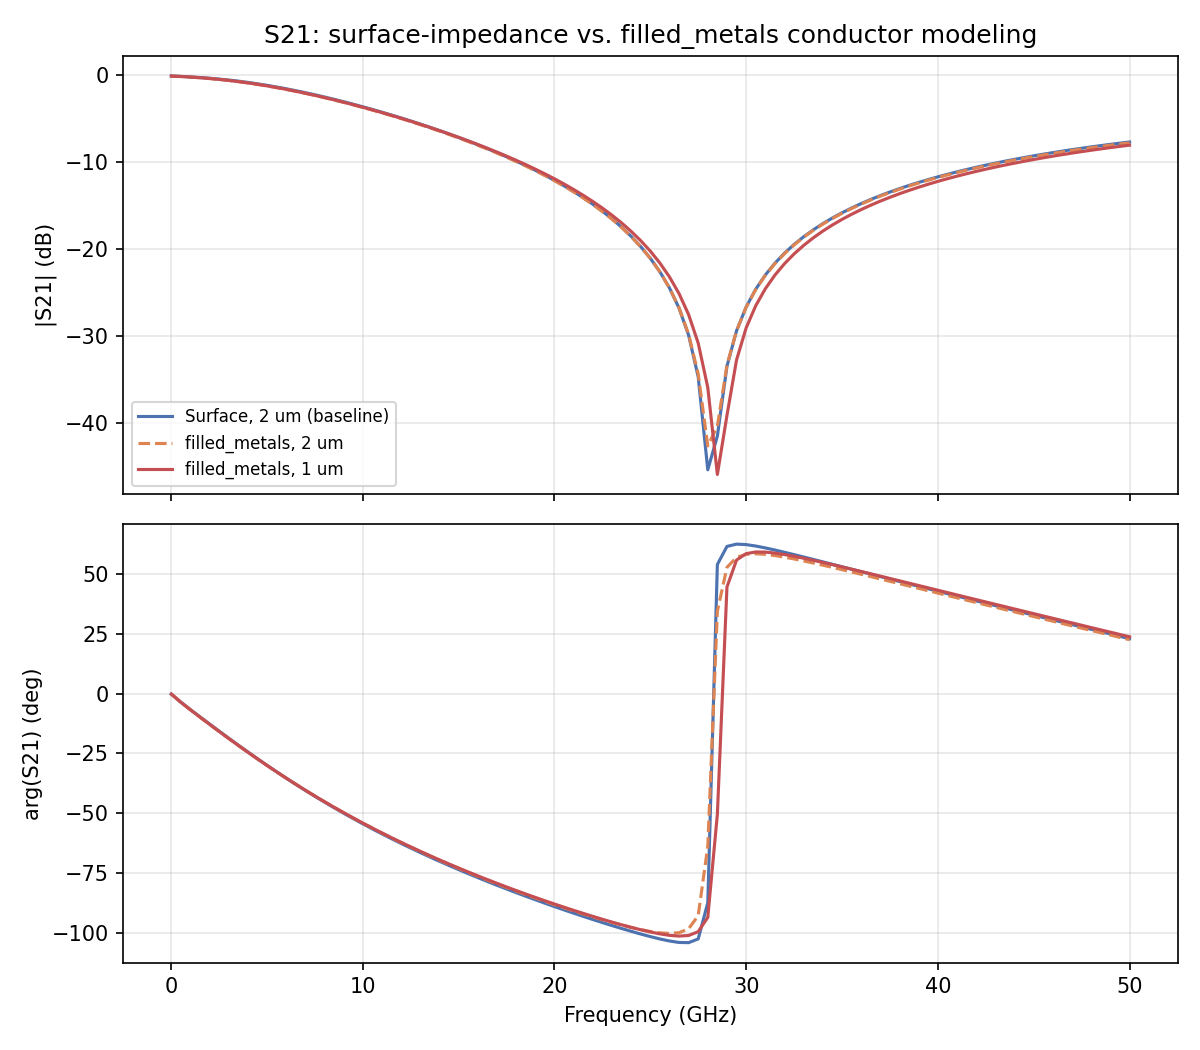
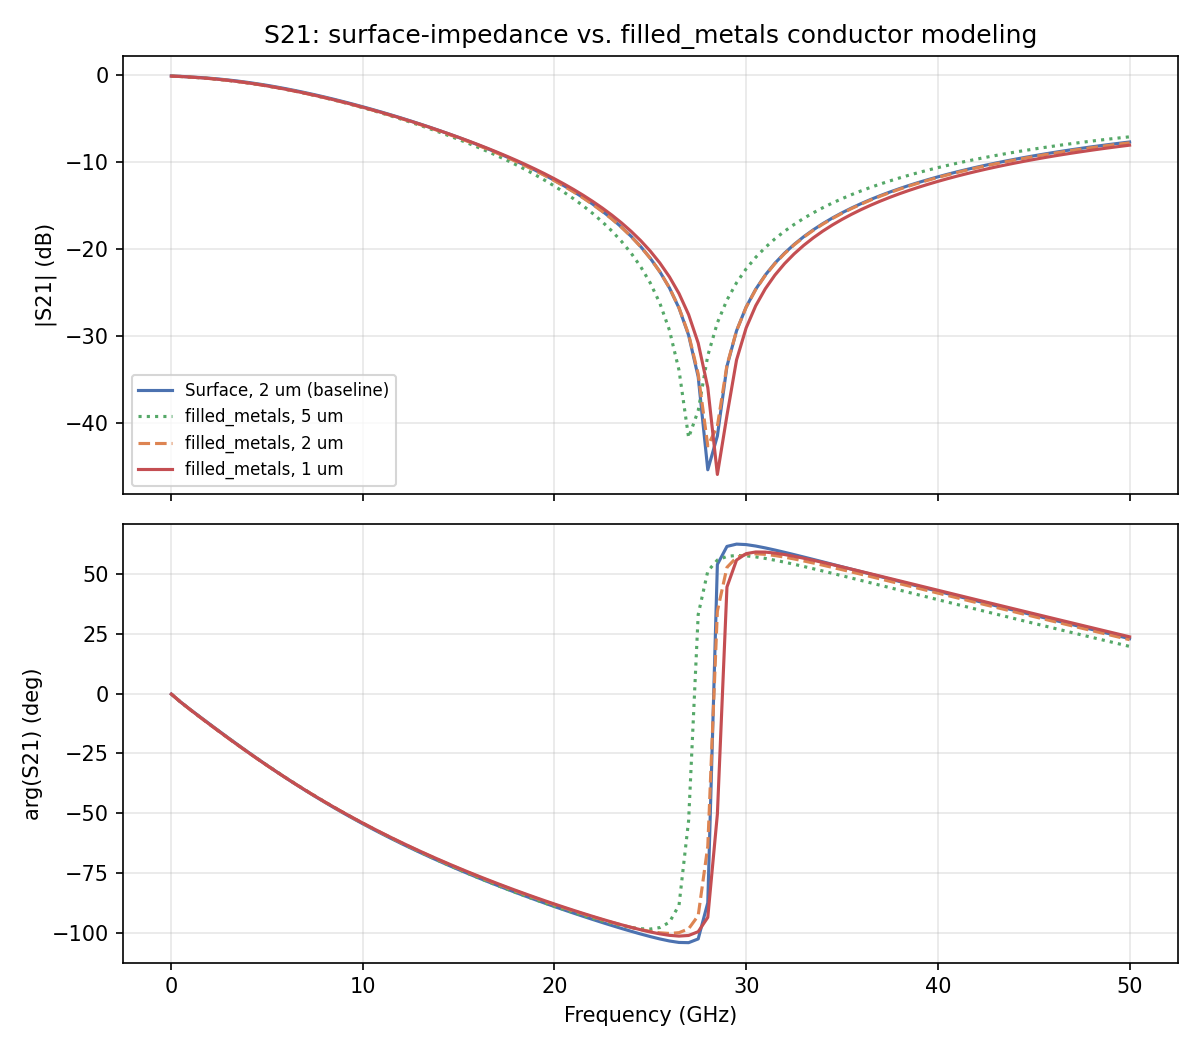
Add volume_5um mesh point to filled_metals L2n0 comparison
Add a coarser 5 um filled_metals model/result to bracket volume_2um
on the coarse side, alongside the existing 2 um/1 um pair. Update the
comparison report, analysis script, and regenerated tables/plots
accordingly: volume_5um is cheaper than even the surface-impedance
baseline but is an accuracy outlier (S-params, SRF, Q/Rseries) since
5 um exceeds the metal thickness and 7 GHz skin depth, so 2 um remains
the practical mesh floor for loss/Q work.

Changed region(s): [[0.1233, 0.3657, 0.3392, 0.4267]]

diff --git a/more_examples/filled_metals_inductor_L2n0/results/analyze_comparison.py b/more_examples/filled_metals_inductor_L2n0/results/analyze_comparison.py
@@ -1,8 +1,8 @@
 #!/usr/bin/env python
 """Surface-impedance vs. filled_metals (bulk-conductivity volume) conductor
 modeling comparison for the L_2n0_twoport differential inductor (IHP
-SG13G2), at matched (surface_2/volume_2, 2um) and finer (volume_1, 1um)
-mesh.
+SG13G2), at matched (surface_2/volume_2, 2um) and finer (volume_1, 1um) or
+coarser (volume_5, 5um) mesh.
 
 Reads RAW (not de-embedded) 2-port Touchstone files from results/snp/,
 following the repo's mesh-convergence-study convention
@@ -32,13 +32,15 @@ PLOT_DIR = os.path.join(HERE, "plots")
 
 SERIES = [
     ("surface_2um", "Surface, 2 um (baseline)", "surface_2um.s2p"),
+    ("volume_5um", "filled_metals, 5 um", "volume_5um.s2p"),
     ("volume_2um", "filled_metals, 2 um", "volume_2um.s2p"),
     ("volume_1um", "filled_metals, 1 um", "volume_1um.s2p"),
 ]
 
 COMPARISONS = [
     ("surface_2um", "volume_2um", "conductor modeling only (matched 2um mesh)"),
-    ("volume_2um", "volume_1um", "mesh refinement only (filled_metals)"),
+    ("volume_5um", "volume_2um", "mesh refinement only (filled_metals, 5um -> 2um)"),
+    ("volume_2um", "volume_1um", "mesh refinement only (filled_metals, 2um -> 1um)"),
     ("surface_2um", "volume_1um", "combined (baseline vs. filled_metals as used)"),
 ]
 
@@ -162,8 +164,8 @@ def main():
     print(f"Wrote delta-S table: {csv_path}")
 
     # ---------- S-parameter overlay plots ----------
-    colors = {"surface_2um": "#4c72b0", "volume_2um": "#dd8452", "volume_1um": "#c44e52"}
-    styles = {"surface_2um": "-", "volume_2um": "--", "volume_1um": "-"}
+    colors = {"surface_2um": "#4c72b0", "volume_5um": "#55a868", "volume_2um": "#dd8452", "volume_1um": "#c44e52"}
+    styles = {"surface_2um": "-", "volume_5um": ":", "volume_2um": "--", "volume_1um": "-"}
 
     for pname in PARAMS:
         fig, (ax_mag, ax_phase) = plt.subplots(2, 1, figsize=(8, 7), sharex=True)

diff --git a/more_examples/filled_metals_inductor_L2n0/palace_L2n0_volume_5.py b/more_examples/filled_metals_inductor_L2n0/palace_L2n0_volume_5.py
@@ -27,7 +27,7 @@ settings['fstop'] = 50.0e9
 settings['fstep'] = 0.5e9
 settings['fdump'] = [15.0e9]
 
-settings['refined_cellsize'] = 2.0
+settings['refined_cellsize'] = 5.0
 settings['filled_metals'] = True
 
 settings['cells_per_wavelength'] = 10.0
@@ -54,15 +54,15 @@ layernumbers = metals_list.getlayernumbers()
 layernumbers.extend(simulation_ports.portlayers)
 
 # read geometries from GDSII
-allpolygons = gds_reader.read_gds(settings['GdsFile'], 
+allpolygons = gds_reader.read_gds(settings['GdsFile'],
 	layernumbers,
-	cellname=settings['cellname'], 
-	purposelist=settings['purpose'], 
-	metals_list=metals_list, 
-	preprocess=settings['preprocess_gds'], 
+	cellname=settings['cellname'],
+	purposelist=settings['purpose'],
+	metals_list=metals_list,
+	preprocess=settings['preprocess_gds'],
 	merge_polygon_size=settings['merge_polygon_size'],
 	gds_boundary_layers=dielectrics_list.get_boundary_layers(),
-	mirror=False, 
+	mirror=False,
 	offset_x=0, offset_y=0,
 	layernumber_offset=0)
 

diff --git a/more_examples/filled_metals_inductor_L2n0/palace_L2n0_surface_2.py b/more_examples/filled_metals_inductor_L2n0/palace_L2n0_surface_2.py
@@ -16,8 +16,8 @@ sim_path = utilities.create_sim_path (script_path,model_basename)
 settings={}
 settings['unit'] = 1e-06
 settings['purpose'] = [0]
-settings['GdsFile'] = 'D:/github-claude/gds2palace_ihp_sg13g2/test_data/filled_metal_L2n0/L_2n0_twoport.gds'
-settings['SubstrateFile'] = 'D:/github-claude/gds2palace_ihp_sg13g2/test_data/filled_metal_L2n0/SG13G2_200um.xml'
+settings['GdsFile'] = 'L_2n0_twoport.gds'
+settings['SubstrateFile'] = 'SG13G2_200um.xml'
 settings['preprocess_gds'] = True
 settings['merge_polygon_size'] = 2.0
 settings['margin'] = 150.0

diff --git a/more_examples/filled_metals_inductor_L2n0/palace_L2n0_volume_1.py b/more_examples/filled_metals_inductor_L2n0/palace_L2n0_volume_1.py
@@ -16,8 +16,8 @@ sim_path = utilities.create_sim_path (script_path,model_basename)
 settings={}
 settings['unit'] = 1e-06
 settings['purpose'] = [0]
-settings['GdsFile'] = 'D:/github-claude/gds2palace_ihp_sg13g2/test_data/filled_metal_L2n0/L_2n0_twoport.gds'
-settings['SubstrateFile'] = 'D:/github-claude/gds2palace_ihp_sg13g2/test_data/filled_metal_L2n0/SG13G2_200um.xml'
+settings['GdsFile'] = 'L_2n0_twoport.gds'
+settings['SubstrateFile'] = 'SG13G2_200um.xml'
 settings['preprocess_gds'] = True
 settings['merge_polygon_size'] = 2.0
 settings['margin'] = 150.0

diff --git a/more_examples/filled_metals_inductor_L2n0/filled_metals_comparison_report.md b/more_examples/filled_metals_inductor_L2n0/filled_metals_comparison_report.md
@@ -17,10 +17,13 @@ This is not a mesh-convergence study in the usual sense (see
 `more_examples/mesh_convergence/AGENTS.md` for that house style) — it compares the new
 `settings['filled_metals']` conductor model (conductors as solid bulk-conductivity volumes)
 against the existing default (thin surface-impedance sheets) on a real, previously-designed
-inductor, at both a matched mesh size (2 µm) and a finer one (1 µm) for `filled_metals`. The
-three model variants and their raw simulation results already existed (`filled_metal_L2n0/` in
-`test_data/`, generated and solved by the user); this report moves them into `more_examples/`
-and analyzes the results.
+inductor, at a matched mesh size (2 µm) and both a finer (1 µm) and a coarser (5 µm) one for
+`filled_metals`. The first three model variants (`surface_2um`, `volume_2um`, `volume_1um`) and
+their raw simulation results already existed (`filled_metal_L2n0/` in `test_data/`, generated
+and solved by the user); this report moved them into `more_examples/` and analyzed the results.
+The fourth variant, `volume_5um`, was added later (model and completed simulation staged in
+`test_data/filled_metals_comparison/`, also generated and solved by the user) to extend the
+mesh-refinement comparison with a coarser `filled_metals` mesh point.
 
 ## 1. Layout
 
@@ -36,18 +39,20 @@ P2), which connect down to **SUBGND**, 12 µm wide, spaced 56.4 µm center-to-ce
 
 ## 2. Method
 
-Three model variants, same GDS/stackup/ports/sweep/boundaries — only conductor model and mesh
+Four model variants, same GDS/stackup/ports/sweep/boundaries — only conductor model and mesh
 size differ:
 
 | Variant | Conductor model | `refined_cellsize` | Model file |
 |---|---|---:|---|
 | `surface_2um` | Surface impedance (default) | 2 µm | `palace_L2n0_surface_2.py` |
+| `volume_5um` | `filled_metals` (bulk-conductivity volume) | 5 µm | `palace_L2n0_volume_5.py` |
 | `volume_2um` | `filled_metals` (bulk-conductivity volume) | 2 µm | `palace_L2n0_volume_2.py` |
 | `volume_1um` | `filled_metals` (bulk-conductivity volume) | 1 µm | `palace_L2n0_volume_1.py` |
 
 `surface_2um` vs. `volume_2um` isolates the effect of conductor modeling alone (identical
-mesh size). `volume_2um` vs. `volume_1um` isolates the effect of mesh refinement alone within
-`filled_metals` (identical conductor model). `surface_2um` vs. `volume_1um` is the combined
+mesh size). `volume_5um` vs. `volume_2um` and `volume_2um` vs. `volume_1um` isolate the effect
+of mesh refinement alone within `filled_metals` (identical conductor model), bracketing
+`volume_2um` on both the coarse and fine side. `surface_2um` vs. `volume_1um` is the combined
 effect (baseline vs. `filled_metals` as actually used for this design).
 
 ## 3. Simulation cost
@@ -55,6 +60,7 @@ effect (baseline vs. `filled_metals` as actually used for this design).
 | Variant | DOF | Mesh elements | Solve time | Peak RAM |
 |---|---:|---:|---:|---:|
 | `surface_2um` | 629,856 | 90,655 | 6m 55s | 7.80 GB |
+| `volume_5um` | 283,832 | 44,618 | 3m 28s | 3.77 GB |
 | `volume_2um` | 751,332 | 118,303 | 11m 54s | 10.63 GB |
 | `volume_1um` | 1,616,260 | 254,592 | 26m 0s | 23.59 GB |
 
@@ -64,7 +70,13 @@ instead of a boundary condition. Refining `filled_metals` from 2 µm to 1 µm mo
 DOF again (2.15×) and roughly doubles solve time and RAM, consistent with the known cost of the
 current implementation, which has no automatic near-surface mesh grading (see
 `doc/ARCHITECTURE.md`'s `filled_metals` entry) — the whole conductor volume gets uniformly
-refined, not just the region near skin depth.
+refined, not just the region near skin depth. Coarsening `filled_metals` from 2 µm to 5 µm goes
+the other way, cutting DOF by ~2.6× and solve time by ~3.4× — cheap enough that `volume_5um`
+actually costs less than the `surface_2um` baseline on every metric (fewer DOF, fewer mesh
+elements, faster solve, less RAM), even though it meshes the conductor interior and the
+surface-impedance model doesn't. That only works because 5 µm is a very coarse cell size
+relative to this structure's ~12 µm trace width and ~3 µm minimum gap — see §5 below for what
+that coarseness costs in accuracy.
 
 ## 4. S-parameters
 
@@ -82,16 +94,22 @@ magnitude-only differences at representative frequencies (full table:
 | Param | Comparison | What changes | Max\|ΔS\| (linear) | \|ΔS\|@1GHz (dB) | \|ΔS\|@7GHz (dB) | \|ΔS\|@20GHz (dB) |
 |---|---|---|---:|---:|---:|---:|
 | S11 | surface_2um → volume_2um | conductor modeling only | 0.0077 | 0.1617 | 0.0137 | 0.0340 |
-| S11 | volume_2um → volume_1um | mesh refinement only | 0.0165 | 0.0102 | 0.0027 | 0.0080 |
+| S11 | volume_5um → volume_2um | mesh refinement only (5um→2um) | 0.0444 | 0.0381 | 0.0334 | 0.0254 |
+| S11 | volume_2um → volume_1um | mesh refinement only (2um→1um) | 0.0165 | 0.0102 | 0.0027 | 0.0080 |
 | S11 | surface_2um → volume_1um | combined | 0.0195 | 0.1719 | 0.0110 | 0.0420 |
 | S21 | surface_2um → volume_2um | conductor modeling only | 0.0068 | 0.0188 | 0.0739 | 0.0427 |
-| S21 | volume_2um → volume_1um | mesh refinement only | 0.0149 | 0.0003 | 0.0062 | 0.2207 |
+| S21 | volume_5um → volume_2um | mesh refinement only (5um→2um) | 0.0399 | 0.0013 | 0.0095 | 0.6171 |
+| S21 | volume_2um → volume_1um | mesh refinement only (2um→1um) | 0.0149 | 0.0003 | 0.0062 | 0.2207 |
 | S21 | surface_2um → volume_1um | combined | 0.0178 | 0.0184 | 0.0677 | 0.1780 |
 
 At 7 GHz, the conductor-modeling effect (surface → volume) dominates S21's delta over the
-mesh-refinement effect (volume_2um → volume_1um) by more than 10×, while `volume_2um` and
-`volume_1um` agree closely with each other — the `filled_metals` result is itself already
-reasonably mesh-converged at 7 GHz; the bigger factor is the conductor model, not mesh size.
+2um→1um mesh-refinement effect by more than 10×, while `volume_2um` and `volume_1um` agree
+closely with each other — the `filled_metals` result is itself already reasonably
+mesh-converged at 7 GHz between 2 µm and 1 µm; the bigger factor is the conductor model, not
+mesh size. Coarsening further to 5 µm breaks that near-convergence, though: `volume_5um` →
+`volume_2um` shows a noticeably larger delta than either finer-mesh step, most strikingly at
+20 GHz where S21 moves by 0.62 dB — 5 µm is simply too coarse relative to this structure's
+~3 µm minimum gap to resolve it reliably, especially as resonance is approached.
 
 ## 5. Differential L / Q / Rseries
 
@@ -99,8 +117,10 @@ reasonably mesh-converged at 7 GHz; the bigger factor is the conductor model, no
 ![Differential Q factor](results/plots/inductor_LQR_q.png)
 ![Differential series resistance](results/plots/inductor_LQR_r.png)
 
-Self-resonant frequency (Ldiff crossing zero) is ~23.1–23.3 GHz for all three variants —
-consistent across conductor models and mesh sizes, a good cross-check of the extraction itself.
+Self-resonant frequency (Ldiff crossing zero) is ~23.1–23.3 GHz for `surface_2um`, `volume_2um`
+and `volume_1um` — consistent across conductor models and mesh sizes, a good cross-check of the
+extraction itself. `volume_5um` is the outlier here too, at 22.5 GHz — another symptom of its
+mesh being too coarse to trust near resonance (see §5's discussion above).
 L and Q are plotted out to 1.2×SRF; the 20 GHz table row sits close enough to resonance that
 L/Q swing quickly there and shouldn't be read as "the" inductance in the same sense as the
 1/7 GHz rows. Rseries is instead plotted only to 8 GHz (y-axis capped at 5 Ω) to keep the
@@ -110,21 +130,31 @@ would be dominated by the >100 Ω climb near resonance (see the 20 GHz table row
 | Freq (GHz) | Variant | L (nH) | Q | Rseries (Ω) |
 |---:|---|---:|---:|---:|
 | 1.0 | Surface, 2 µm (baseline) | 1.6521 | 6.93 | 1.497 |
+| 1.0 | filled_metals, 5 µm | 1.6754 | 6.15 | 1.711 |
 | 1.0 | filled_metals, 2 µm | 1.6798 | 6.20 | 1.701 |
 | 1.0 | filled_metals, 1 µm | 1.6808 | 6.21 | 1.701 |
 | **7.0** | **Surface, 2 µm (baseline)** | **1.7763** | **26.62** | **2.935** |
+| **7.0** | **filled_metals, 5 µm** | **1.7846** | **18.31** | **4.286** |
 | **7.0** | **filled_metals, 2 µm** | **1.7874** | **19.81** | **3.968** |
 | **7.0** | **filled_metals, 1 µm** | **1.7859** | **20.27** | **3.876** |
 | 20.0 (near SRF) | Surface, 2 µm (baseline) | 6.03 | 6.86 | 110.5 |
+| 20.0 (near SRF) | filled_metals, 5 µm | 6.95 | 4.48 | 195.0 |
 | 20.0 (near SRF) | filled_metals, 2 µm | 5.98 | 5.63 | 133.5 |
 | 20.0 (near SRF) | filled_metals, 1 µm | 5.69 | 6.18 | 115.7 |
 
-At the 7 GHz design frequency: **L agrees closely** across all three (1.776–1.787 nH, <0.7%
-spread) — the inductance itself is insensitive to conductor model here. **Q and Rseries do not**:
-`filled_metals` shows ~30–35% higher Rseries and ~24–26% lower Q than the surface-impedance
-model, essentially independent of mesh (volume_2um and volume_1um agree with each other to
-~2.5% on both, at 1 µm and 2 µm mesh) — this is a real, mesh-converged difference between the
-two *models*, not a `filled_metals` mesh-resolution artifact at this frequency.
+At the 7 GHz design frequency: **L still agrees closely** across all four variants (1.776–1.787
+nH, <0.7% spread even including the 5 µm mesh) — the inductance itself is robust to both
+conductor model and mesh size here. **Q and Rseries are more mesh-sensitive than the 2 µm/1 µm
+pair alone suggested**: `volume_2um` and `volume_1um` agree with each other to ~2.5% on both
+(the mesh-converged `filled_metals` behavior noted below), but `volume_5um` sits clearly outside
+that agreement — Rseries ~8% higher and Q ~10% lower than `volume_2um` at 7 GHz, and the gap
+widens sharply near SRF (20 GHz: `volume_5um`'s Rseries is 195 Ω vs. 133 Ω for `volume_2um`,
+and L itself has visibly diverged, 6.95 nH vs. 5.98 nH). 5 µm is too coarse to trust for Q/R
+work on this structure; 2 µm and 1 µm remain the mesh-converged pair the rest of this discussion
+refers to as "`filled_metals`" below. Independent of mesh, `filled_metals` (at 2 µm/1 µm) shows
+~30–35% higher Rseries and ~24–26% lower Q than the surface-impedance model at 7 GHz — a real,
+mesh-converged difference between the two *models*, not a `filled_metals` mesh-resolution
+artifact at this frequency.
 
 **Why might this be:** the zoomed Rseries plot (0–8 GHz, 0–5 Ω) shows the gap between models is
 already present near DC (~1.2 Ω surface vs. ~1.5 Ω `filled_metals` as f→0) and grows roughly
@@ -135,7 +165,10 @@ conductor cross-section between a meshed volume and an analytic surface-impedanc
 frequency-dependent growth on top of that is consistent with skin/proximity effect: in
 TopMetal2 (σ=30.3×10⁶ S/m), skin depth is 2.89 µm at 1 GHz and 1.09 µm at 7 GHz against a 3 µm
 metal thickness — thin enough to matter, but not so thin that either 1 µm or 2 µm mesh should
-badly under-resolve it. This is a tightly-wound coil with a
+badly under-resolve it. A 5 µm mesh is a different story: it's coarser than the metal thickness
+itself and well above the 7 GHz skin depth, which is consistent with `volume_5um` being the
+outlier above rather than sitting on the same converged trend as `volume_2um`/`volume_1um`.
+This is a tightly-wound coil with a
 ~3 µm gap at the underpass bridge and conductor sections running close to each other and to the
 SUBGND return — a surface-impedance boundary condition computes loss from the local field at
 each point, independent of nearby conductors, whereas a volume-meshed model can in principle
@@ -164,22 +197,33 @@ log scale).
 *filled_metals (1 µm):* visibly denser mesh both inside the conductor and in the surrounding
 dielectric near it, compared to the 2 µm case.
 
+`volume_5um`'s E-field/mesh cross-section wasn't rendered (KLayout + `field_viewer.py`, a manual
+step not repeated when this variant was added — see §8's regeneration note).
+
 ## 7. Discussion
 
 - **Inductance (L)** is robust to conductor modeling choice for this structure at 7 GHz — use
-  either model if L alone is the target quantity.
+  either model if L alone is the target quantity, at any of the tested mesh sizes down to 5 µm.
 - **Q and series resistance are not** — `filled_metals` predicts meaningfully more loss than the
-  surface-impedance default here, and this shows up consistently at both tested mesh sizes, so
-  it isn't simply a "refine the mesh more" fix. Anyone using `filled_metals` for loss/Q-sensitive
-  work should be aware the two conductor models can disagree by tens of percent on Q/R even when
-  well mesh-converged against themselves, and that this repo doesn't yet have independent
-  validation (e.g. against measurement) of which one is closer to reality for a coupled-turn
-  structure like this.
-- **Cost**: `filled_metals` at matched mesh already costs ~70% more solve time than surface
-  impedance; refining further roughly doubles cost again. For routine differential-L extraction
-  where surface and volume models agree, the surface-impedance default remains the practical
-  choice; `filled_metals` is worth its extra cost specifically when the bulk-conductor physics
-  (that a boundary condition can't represent) is the thing being investigated.
+  surface-impedance default here, and this shows up consistently at both mesh-converged sizes
+  (2 µm and 1 µm), so it isn't simply a "refine the mesh more" fix. Anyone using `filled_metals`
+  for loss/Q-sensitive work should be aware the two conductor models can disagree by tens of
+  percent on Q/R even when well mesh-converged against themselves, and that this repo doesn't
+  yet have independent validation (e.g. against measurement) of which one is closer to reality
+  for a coupled-turn structure like this.
+- **Don't go too coarse**: unlike L, Q and Rseries are mesh-sensitive within `filled_metals`
+  itself once the mesh gets too coarse relative to the structure — `volume_5um` (5 µm cells vs.
+  a 3 µm metal thickness and ~3 µm minimum gap) diverges from the 2 µm/1 µm agreement by ~8-10%
+  on Q/R at 7 GHz, growing much worse near self-resonance. 5 µm is cheap (see cost below) but not
+  trustworthy for loss/Q work on this structure; 2 µm is the practical floor here.
+- **Cost**: `filled_metals` at matched (2 µm) mesh already costs ~70% more solve time than
+  surface impedance; refining further to 1 µm roughly doubles cost again. Coarsening to 5 µm
+  goes the other way and is actually cheaper than the surface-impedance baseline — but per the
+  point above, that cheap result isn't accurate enough to use for anything but a quick sanity
+  check. For routine differential-L extraction where surface and volume models agree, the
+  surface-impedance default remains the practical choice; `filled_metals` (at 2 µm or finer) is
+  worth its extra cost specifically when the bulk-conductor physics (that a boundary condition
+  can't represent) is the thing being investigated.
 
 ## 8. Where everything lives
 
@@ -189,6 +233,7 @@ more_examples/filled_metals_inductor_L2n0/
 ├── L_2n0_twoport.gds                    -- layout (input)
 ├── SG13G2_200um.xml                     -- stackup (input)
 ├── palace_L2n0_surface_2.py             -- surface-impedance, 2um mesh
+├── palace_L2n0_volume_5.py              -- filled_metals, 5um mesh
 ├── palace_L2n0_volume_2.py              -- filled_metals, 2um mesh
 ├── palace_L2n0_volume_1.py              -- filled_metals, 1um mesh
 ├── palace_model/                        -- raw solver output (gitignored, not committed)
@@ -202,6 +247,7 @@ more_examples/filled_metals_inductor_L2n0/
         ├── s11_comparison.png, s21_comparison.png
         ├── inductor_LQR_l.png, _q.png, _r.png
         └── efield_mesh_palace_L2n0_{surface_2,volume_2,volume_1}.png
+                                        -- no volume_5 render (not generated, see §6)
 ```
 
 Regenerate all tables/plots (except the layout screenshot and E-field renders, which need
